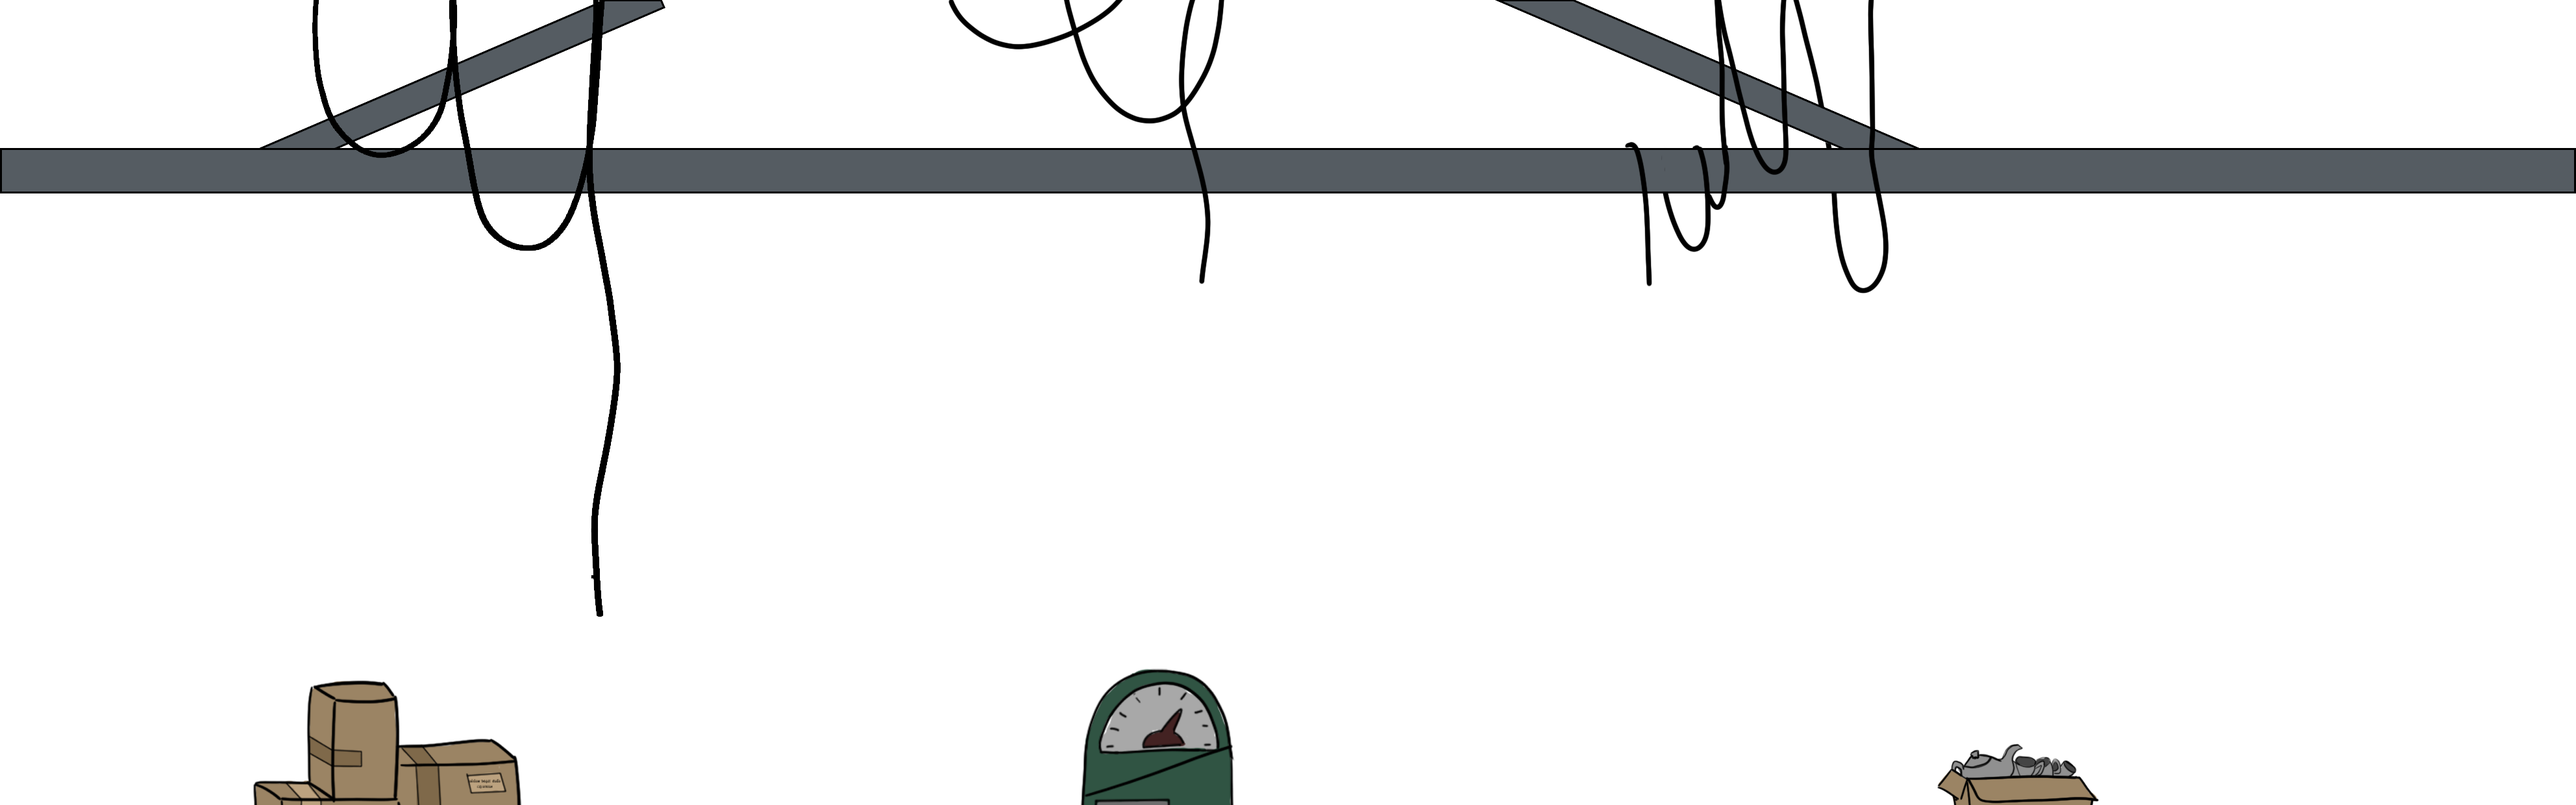
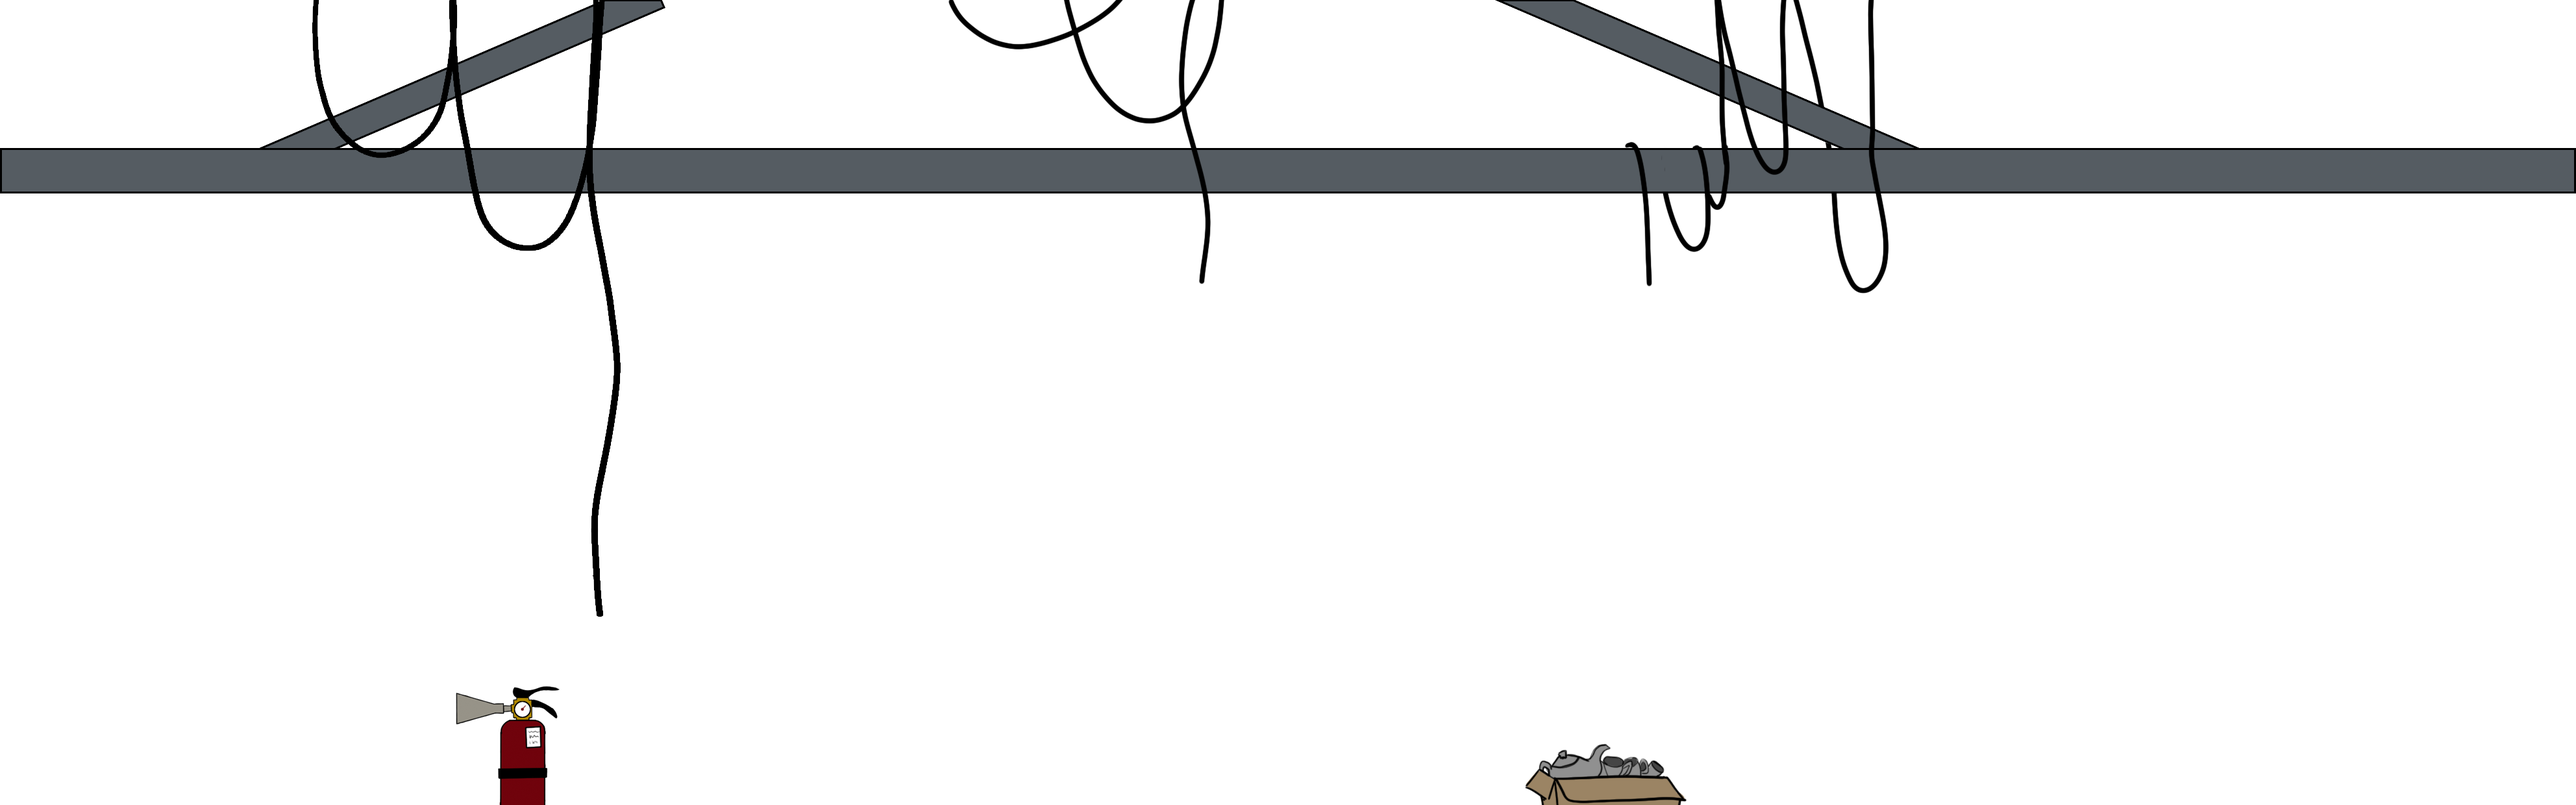
fg lvl 2

diff --git a/src/scenes/Levels/Level2.js b/src/scenes/Levels/Level2.js
@@ -46,7 +46,7 @@ Level2.prototype.preload = function () {
     Scene.prototype.loadToScene.call(this, "teapotShadow", "./assets/teapotShadow.png");
 
     Scene.prototype.loadToScene.call(this, "bg2_1", "./assets/backgrounds/bg_nivel1_1.png");
-    Scene.prototype.loadToScene.call(this, "bg2_2", "./assets/backgrounds/bg_nivel1_2.png");
+    Scene.prototype.loadToScene.call(this, "bg2_2", "./assets/backgrounds/bg_nivel2_2.png");
     Scene.prototype.loadToScene.call(this, "fg2_1", "./assets/backgrounds/fg_nivel2_1.png");
     
 
@@ -75,10 +75,10 @@ Level2.prototype.create = function () {
 
     this.gui = new InGameGUI(this);
     let bg = new Background(this, "bg2_1", -Game.TILE_SIZE / 2 - 1, Game.TILE_SIZE, 0);
-    let bg2 = new Background(this, "bg2_2", 0, Game.TILE_SIZE*5  , -1);
+    let bg2 = new Background(this, "bg2_2", Game.TILE_SIZE, Game.TILE_SIZE, -1);
     
 
-    let fg = new Foreground(this, "fg2_1", 0, Game.TILE_SIZE, 0);
+    let fg = new Foreground(this, "fg2_1", Game.TILE_SIZE, Game.TILE_SIZE, 0);
 
     let colorPlayer = this.objControl.colorPlayer;
     let shadowPlayer = this.objControl.shadowPlayer;
